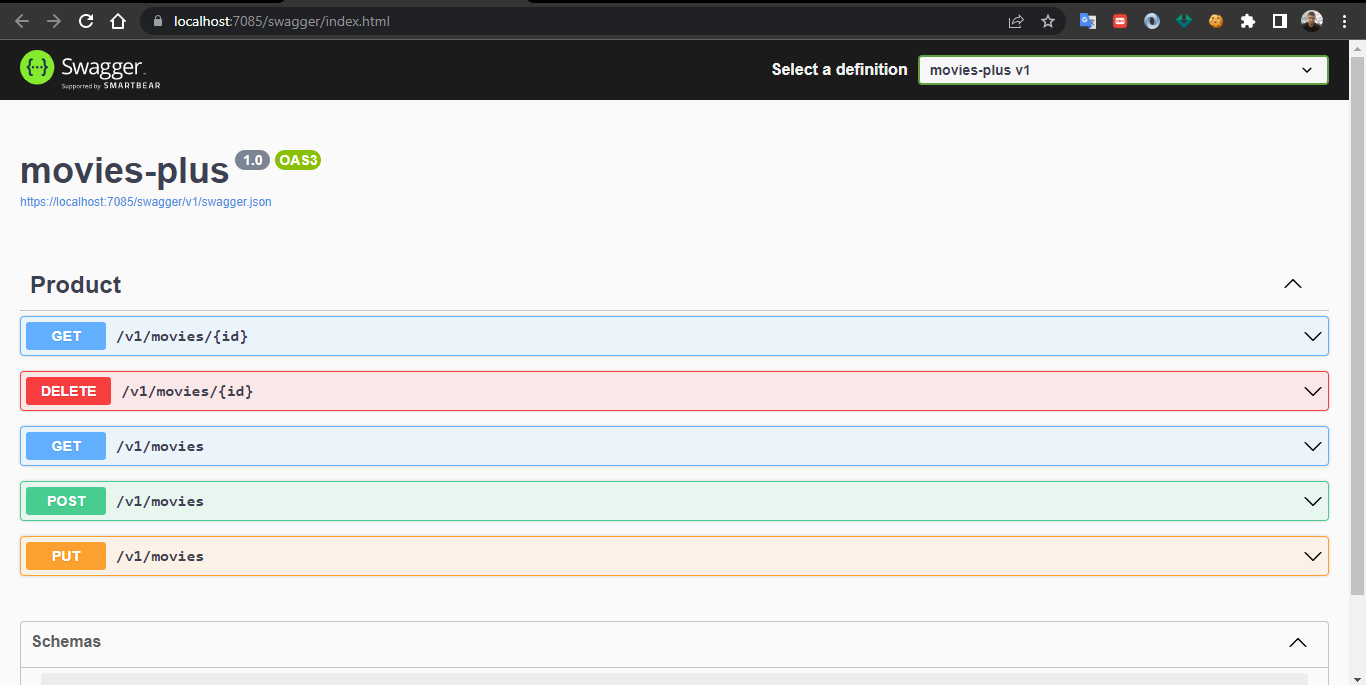
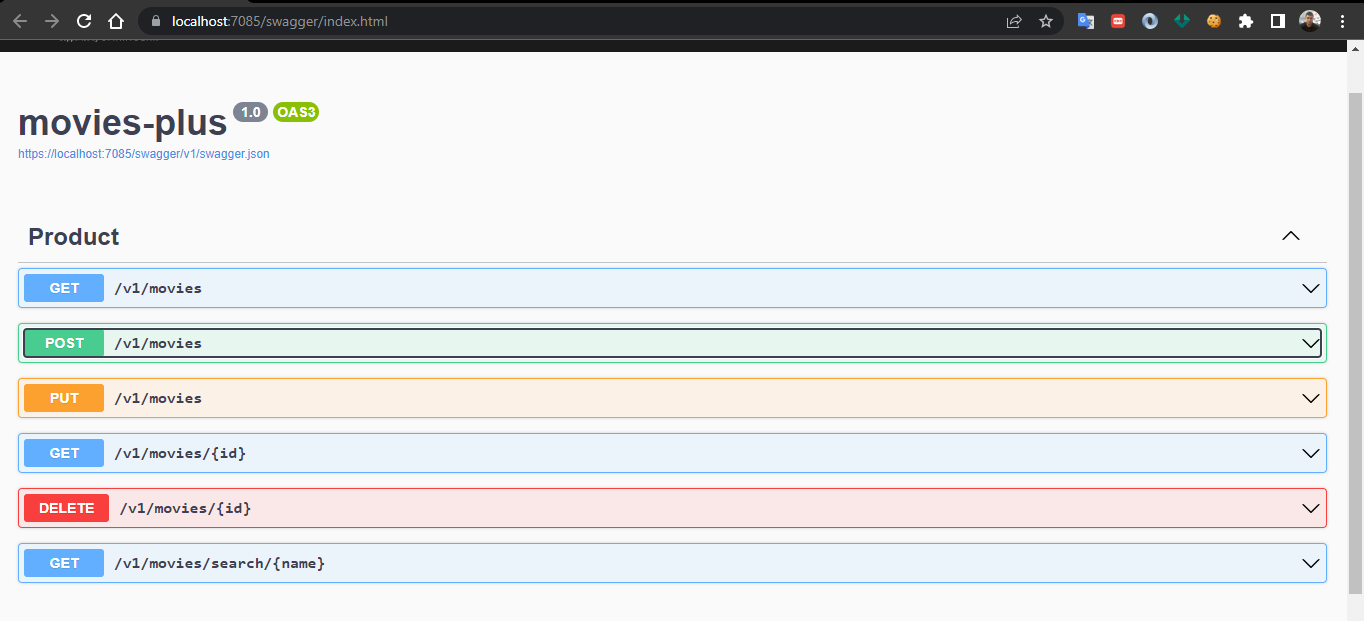
creando metodo de pesquisa

diff --git a/movies-plus/Controllers/movieController.cs b/movies-plus/Controllers/movieController.cs
@@ -2,6 +2,8 @@
 using Microsoft.EntityFrameworkCore;
 using movies_plus.Data;
 using movies_plus.Models;
+using System.Reflection;
+using System;
 
 namespace movies_plus.Controllers
 {   
@@ -25,6 +27,20 @@ namespace movies_plus.Controllers
                 .AsNoTracking()
                 .FirstOrDefaultAsync(x => x.Id == id);
             return movies;
+        }
+
+        [HttpGet]
+        [Route("search/{name}")]
+        public async Task<ActionResult<IEnumerable<Movies>>> Search([FromServices] DataContext context, string name)
+        {
+            IQueryable<Movies> query = context.Movies;
+
+            if (!string.IsNullOrEmpty(name))
+            {
+                query = query.Where(e => e.Name.Contains(name));
+            }
+
+            return await query.ToListAsync();
         }
 
         [HttpPost]
@@ -61,9 +77,8 @@ namespace movies_plus.Controllers
         [Route("{id:int}")]
         public async Task Delete([FromServices] DataContext context, int id)
         {
-            await context.Movies
-                .AsNoTracking()
-                .FirstOrDefaultAsync(x => x.Id == id);
+            context.Remove(context.Movies.Single(a => a.Id == 1));
+            context.SaveChanges();
         }
         
     }
